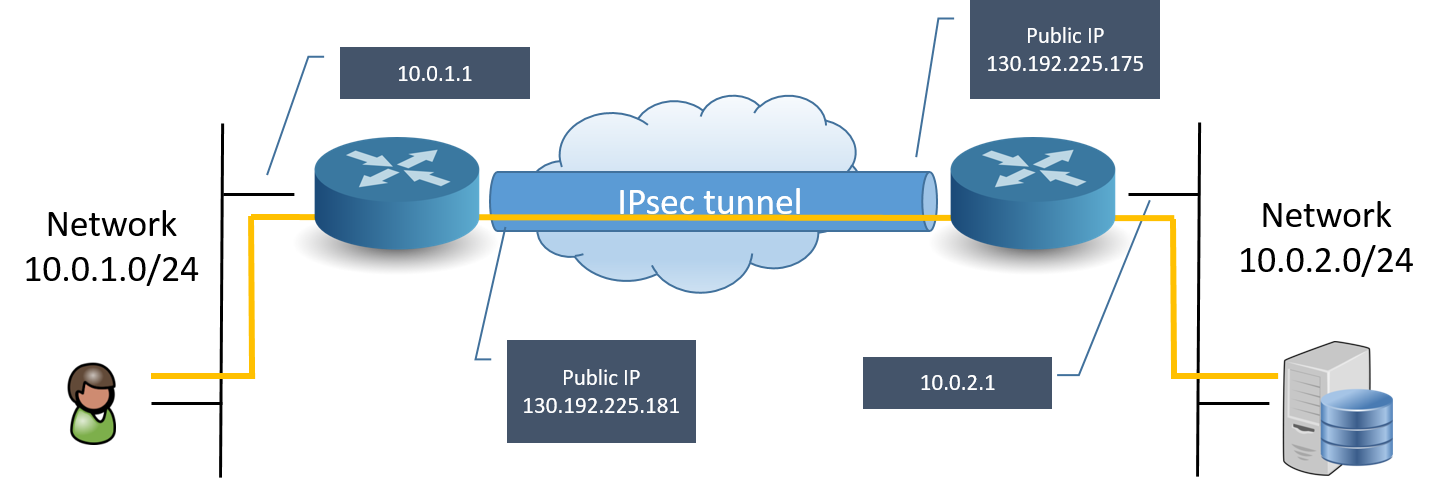
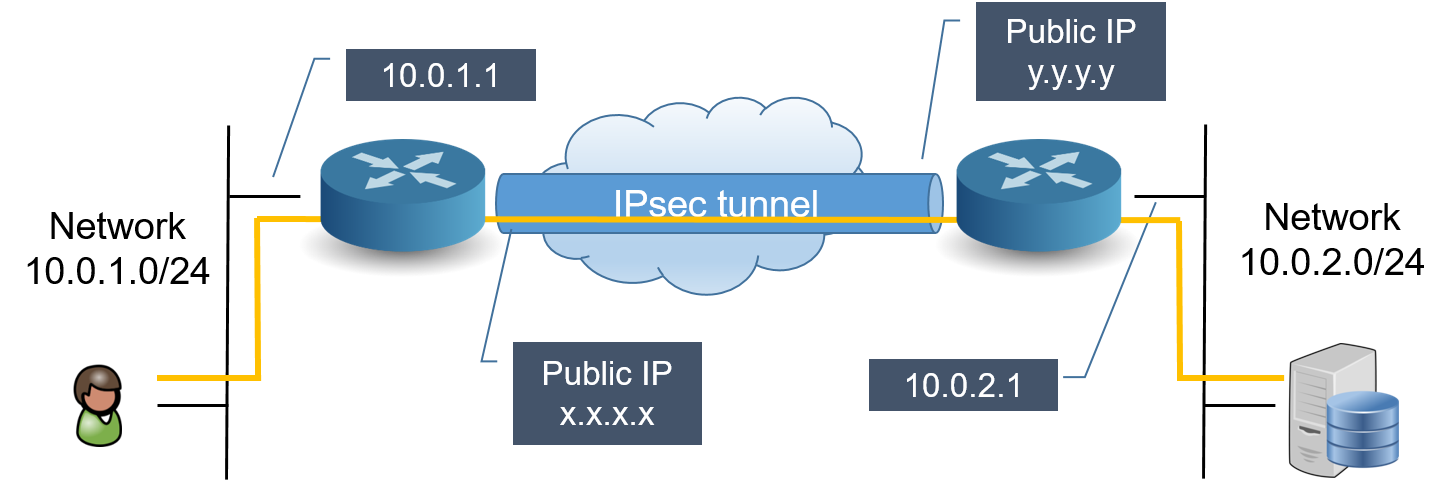
Update documentation and modify sample ip addresses for vpn_sec native NF

diff --git a/NFs/native/vpn_security/README.md b/NFs/native/vpn_security/README.md
@@ -7,7 +7,7 @@ The overall service is depicted in the following figure.
 
 ![vpnsec](https://raw.githubusercontent.com/netgroup-polito/un-orchestrator/native_function_support/images/vpn_sec_configuration.png)
 
-The public IP addresses `130.192.225.181` and `130.192.225.175` are the end points
+The public IP addresses `x.x.x.x` and `y.y.y.y` are the end points
 of the IPsec tunnel. All traffic sent between the networks `10.0.1.0/24` and
 `10.0.2.0/24` is secured through an AES-CBC encryption scheme with a key length of
 128 bits.  
@@ -35,3 +35,11 @@ provided. It must be customized and set on the remote end point with the
 following command:
 
 	$ sudo setkey -f  remote_setkey.conf
+	
+## Run
+
+Before running this native network function you must create a tar.gz archive
+that contains the files `start`, `stop` and `setkey.conf` (already customized)
+with the command:
+
+	$ tar -zcf vpn_sec.tar.gz start stop setkey.conf
